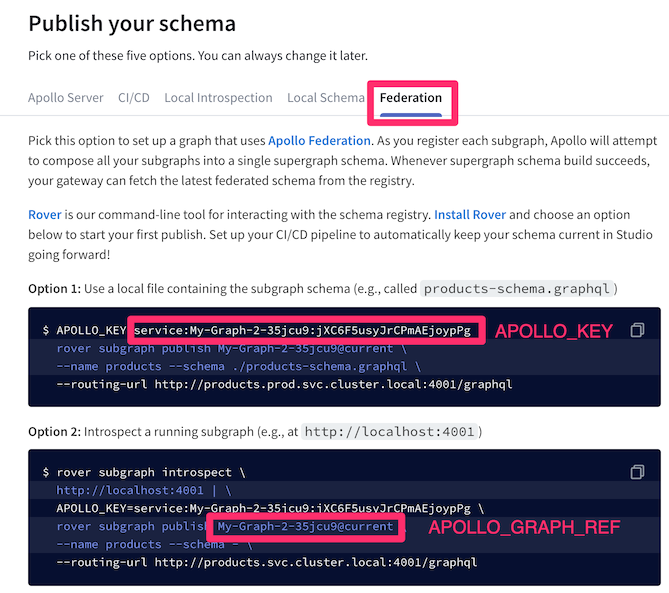
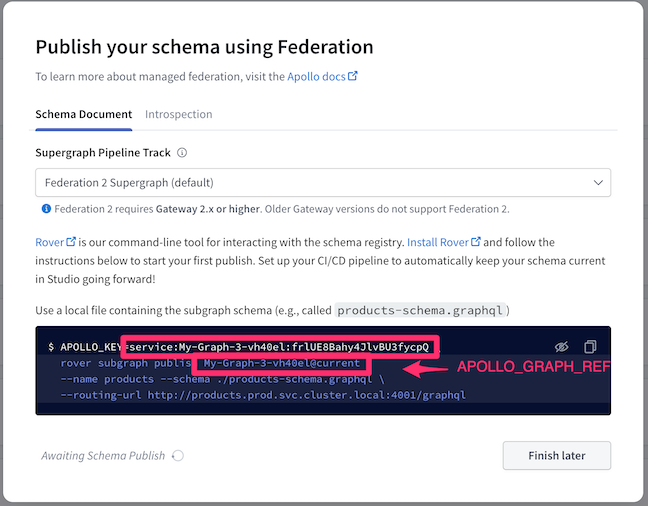
update readme

diff --git a/README.md b/README.md
@@ -76,10 +76,10 @@ For help with `rover` see [installing the Rover CLI](https://www.apollographql.c
 
 ### Create a graph following the prompts
 
-* Follow the prompt to add your first graph with the `Deployed` option selected
-* Navigate to the Federation tab and note the `APOLLO_KEY` and `APOLLO_GRAPH_REF`
+![create graph](docs/media/fed2/0-create-graph.png)
 
-It should look like this:
+* Follow the prompt to add your first graph with the `Deployed` option selected and the `Supergraph` architecture selected.
+* Click Next
 
 ![Get apollo key](docs/media/fed2/0-apollo-key.png)
 
@@ -92,34 +92,36 @@ Then publish the 3 [subgraph schemas](./subgraphs) to the registry in Apollo Stu
 make publish
 ```
 
-It will prompt you for your `APOLLO_KEY` and your `APOLLO_GRAPH_REF` that you saved from the step above.
+It will prompt you for your `APOLLO_KEY` and your `APOLLO_GRAPH_REF` that you can obtain from the screen above.
 
-This will initially result in an following error:
+The subgraph will be published to the Apollo Registry:
 
 ```
 ---------------------------------------
-subgraph: users
+subgraph: pandas
 ---------------------------------------
-+ rover subgraph publish My-Graph-2-35jcu9@current --routing-url http://users:4000/graphql --schema subgraphs/users/users.graphql --name users --convert
-Publishing SDL to My-Graph-2-35jcu9@current (subgraph: users) using credentials from the default profile.
-error: Errors validating subgraph schemas: [{"message":"Subgraph products: Interface ProductItf cannot implement interfaces with subgraph schemas. Contact Apollo support if you're interested in using this GraphQL feature with federation."}]
++ rover subgraph publish My-Graph-3-vh40el@current --routing-url http://pandas:4000/graphql --schema subgraphs/pandas/pandas.graphql --name pandas --convert
+Publishing SDL to My-Graph-3-vh40el@current (subgraph: pandas) using credentials from the default profile.
+
+A new subgraph called 'pandas' for the 'My-Graph-3-vh40el@current' graph was created
+
+The gateway for the 'My-Graph-3-vh40el@current' graph was updated with a new schema, composed from the updated 'pandas' subgraph
+
+Monitor your schema delivery progress on on studio: https://studio.apollographql.com/graph/My-Graph-3-vh40el/launches/5bbeb91e-c6bd-4fdf-b8af-5c330f26d618?variant=current
 ```
 
-but we can fix that by enabling `Federation 2` in Apollo Studio:
+### Schema Published Successfully!
 
-![Initial publish with Fed 1 not enabled](docs/media/fed2/1-publish-error.png)
+![Initial publish with Fed 1 not enabled](docs/media/fed2/1-publish-success.png)
 
-### Enable `Federation 2` in Apollo Studio
+Click See schema changes
 
-First navigate to your graph settings:
+### View supergraph build results
+
 
 ![Enable Fed 2](docs/media/fed2/2-studio-enable.png)
 
-Then enable `Federation 2`:
-
-![Enable Fed 2](docs/media/fed2/3-studio-enable-2.png)
-
-With Federation 2 enabled, the Federated graph composes successfully in Apollo Studio:
+### View unified API schema for apps to use
 
 ![Federated Graph in Apollo Studio](docs/media/fed2/4-studio-working.png)
 
